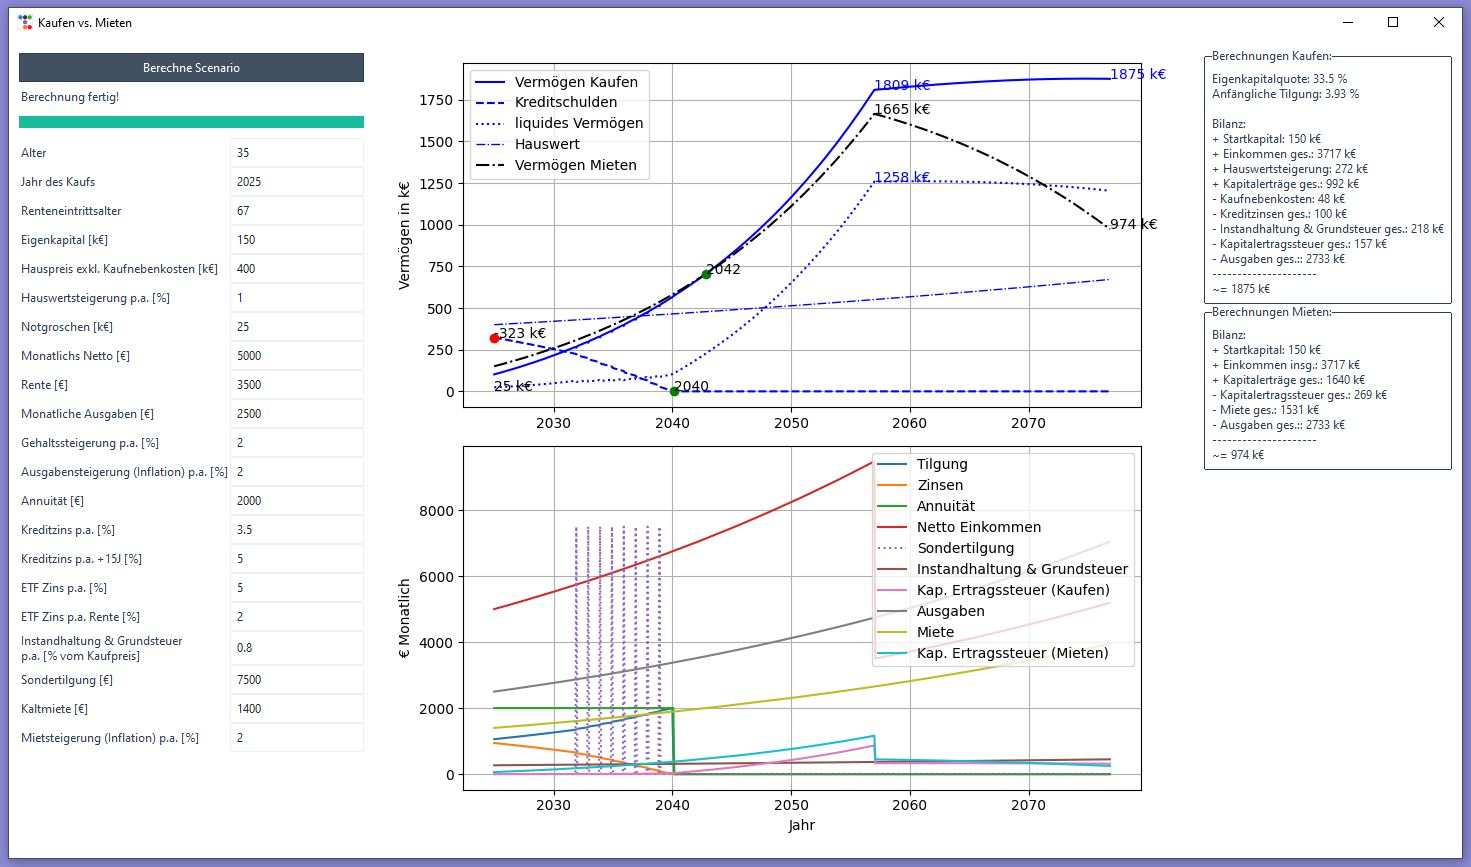
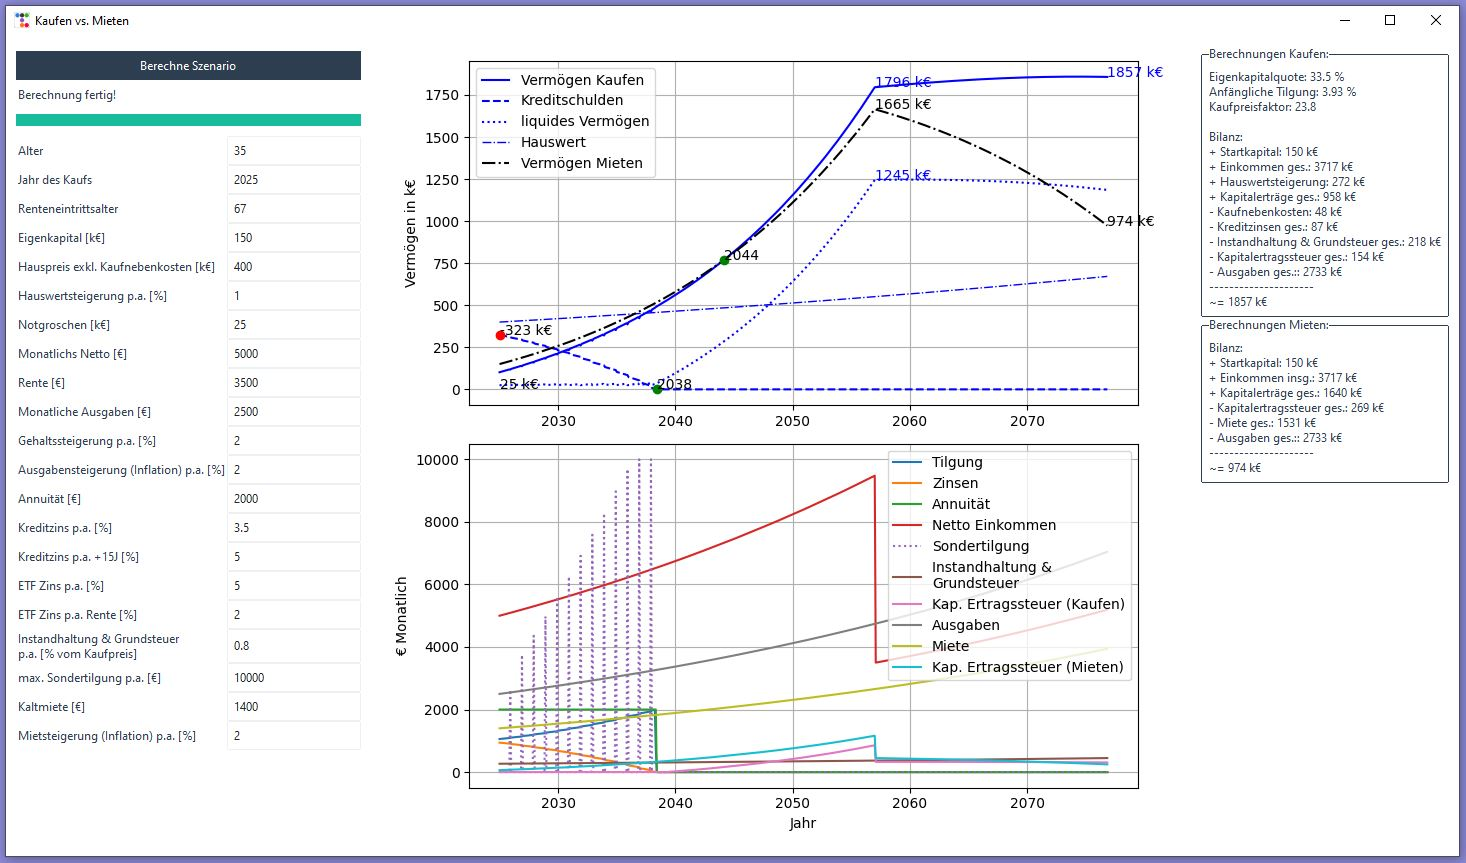
Update Readme, improve modelling of special payments, extend scenario infos

diff --git a/BuyingVsRenting.py b/BuyingVsRenting.py
@@ -98,15 +98,15 @@ def main_calculator(dates, Parameters, Constants):
         portfolio_value_vec[step]= portfolio_value_vec[step]+etf_interest_vec[step]-interest_gains_tax_vec[step]-housemaintenance_vec[step] # correction of portfolie value after interests and taxes
 
         # special repayments of loan at the end of each year if possible
-        if date.month == 12 and portfolio_value_vec[step]>Parameters["emergency_fund"]+Parameters["special_repayment"] and debt_vec[step]>(Parameters["special_repayment"]+repayment_vec[step]):
-            special_repayment_vec[step] = Parameters["special_repayment"]
-            portfolio_value_vec[step] = portfolio_value_vec[step] - Parameters["special_repayment"]
-            debt_next_step = max(debt_vec[step] - repayment_vec[step] - Parameters["special_repayment"], 0)
+        if date.month == 12 and portfolio_value_vec[step]>0 and debt_vec[step]>repayment_vec[step]:
+            special_repayment_vec[step] = min(Parameters["special_repayment"],portfolio_value_vec[step],debt_vec[step]-repayment_vec[step])
+            portfolio_value_vec[step] = portfolio_value_vec[step] - special_repayment_vec[step] 
+            debt_next_step = debt_vec[step] - repayment_vec[step] - special_repayment_vec[step]
         else:
             # update debt of next cycle
             if debt_vec[step] - repayment_vec[step] > 0:
                 debt_next_step = debt_vec[step] - repayment_vec[step]
-            elif debt_vec[step]>0: 
+            elif debt_vec[step]>0 and (debt_vec[step] - repayment_vec[step]) < 0 : 
                 portfolio_value_vec[step] = portfolio_value_vec[step] + repayment_vec[step] - debt_vec[step]
                 repayment_vec[step] = debt_vec[step]
                 debt_next_step = 0
@@ -145,7 +145,7 @@ def main_calculator(dates, Parameters, Constants):
         "etf_interest_vec": etf_interest_vec
     }, index=dates)
 
-    #print(sum(repayment_vec)+sum(special_repayment_vec)) equals initial debt
+    #print(round(sum(repayment_vec)+sum(special_repayment_vec))) #should equal initial debt
 
     key_values = { #unit k€
         "house_purchase_additional_costs" : Constants["house_purchase_additional_costs_rate"]*Parameters["house_price"]/1000,
@@ -200,6 +200,7 @@ def calc_and_plot_scenario():
     # ouput calculations of buying scenario
     labeltext = "Eigenkapitalquote: " + str(round(100*Parameters["start_capital"]/(Parameters["house_price"]*(1+Constants["house_purchase_additional_costs_rate"])),1)) +" %"
     labeltext = labeltext + "\n" + "Anfängliche Tilgung: "+ str(round(df_buy["repayment_vec"].iloc[0]/df_buy["debt_vec"].iloc[0]*12*100,2)) + " %"
+    labeltext = labeltext + "\n" + "Kaufpreisfaktor: " + str(round(Parameters["house_price"]/(Parameters["rent"]*12),1))
     labeltext = labeltext + "\n" + " "
     labeltext = labeltext + "\n" + "Bilanz:"
     labeltext = labeltext + "\n" + "+ Startkapital: " + str(round(Parameters["start_capital"]/1000))  + " k€"
@@ -283,7 +284,7 @@ def calc_and_plot_scenario():
     ax2.plot(df_buy.index, df_buy["loan_rate_vec"], label="Annuität")
     ax2.plot(df_buy.index, df_buy["net_income_vec"], label="Netto Einkommen")
     ax2.plot(df_buy.index, df_buy["special_repayment_vec"], label="Sondertilgung", linestyle = 'dotted')
-    ax2.plot(df_buy.index, df_buy["housemaintenance_vec"], label="Instandhaltung & Grundsteuer")
+    ax2.plot(df_buy.index, df_buy["housemaintenance_vec"], label="Instandhaltung &\nGrundsteuer")
     ax2.plot(df_buy.index, df_buy["interest_gains_tax_vec"], label="Kap. Ertragssteuer (Kaufen)")
     ax2.plot(df_buy.index, df_buy["expenses_vec"], label="Ausgaben")
     ax2.plot(df_rent.index, df_rent["rent_vec"], label="Miete")
@@ -325,7 +326,7 @@ def get_defaults():
         "etf_interest" : 5,
         "etf_interest_retirement" : 2, # smaller interest due to more conservative investment during retirement
         "housemaintenance_rate" : 0.8, # % of house value per year
-        "special_repayment" : 7500, #€
+        "special_repayment" : 10000, #€
         "rent" : 1400, #€
         "rent_increase_rate": 2, # % increase per year
         }
@@ -334,7 +335,7 @@ def get_defaults():
                            "Hauswertsteigerung p.a. [%]","Notgroschen [k€]","Monatlichs Netto [€]","Rente [€]",'Monatliche Ausgaben [€]', \
                            "Gehaltssteigerung p.a. [%]","Ausgabensteigerung (Inflation) p.a. [%]","Annuität [€]","Kreditzins p.a. [%]", \
                           "Kreditzins p.a. +15J [%]", "ETF Zins p.a. [%]","ETF Zins p.a. Rente [%]","Instandhaltung & Grundsteuer \np.a. [% vom Kaufpreis]",\
-                            "Sondertilgung [€]", "Kaltmiete [€]","Mietsteigerung (Inflation) p.a. [%]"]
+                            "max. Sondertilgung p.a. [€]", "Kaltmiete [€]","Mietsteigerung (Inflation) p.a. [%]"]
                               
     Constants = {
         "YearlyTaxFreeInterests" : 2000, #€
@@ -360,7 +361,7 @@ input_frame = ttk.Frame(root, padding=10)
 input_frame.grid(row=0, column=0, sticky="NSEW")
 
 # calc button
-calc_button = ttk.Button(input_frame, text="Berechne Scenario", command=calc_and_plot_scenario, bootstyle="primary")
+calc_button = ttk.Button(input_frame, text="Berechne Szenario", command=calc_and_plot_scenario, bootstyle="primary")
 calc_button.grid(row=0, column=1, columnspan=2, sticky="NSEW", pady = 5)
 
 # Create a progress bar 

diff --git a/README.md b/README.md
@@ -2,6 +2,8 @@
 
 A simple python-based calculator comparing buying and renting scenarios. Put in your values, press the calculation button and check your results. Labels are kept in german language for self-use reasons :)
 
+The program was designed to cover the most important impact factors while avoiding unnecessary precision in view of the significant uncertainty of forecasts regarding future trends (e.g. development of inflation and rents)
+
 ## Demo Image
 <img src="demo.JPG" alt="demoplot" width="1000" height="auto">
 
@@ -14,9 +16,13 @@ Run the following command to install dependencies.
 ```bash
 pip install -r requirements.txt
 ```
+Run Buying vs. Renting Calculator
+```bash
+py BuyingVsRenting.py
+```
 
 ## Advanced Use
 There are some constant definitions in the `get_defaults` function, which you can only change in the code. Also, you can change the default values to avoid re-entering all your values.
 
 ## Note
-No guarantee of the accuracy of all calculations
+No guarantee of the correctness of all calculations
